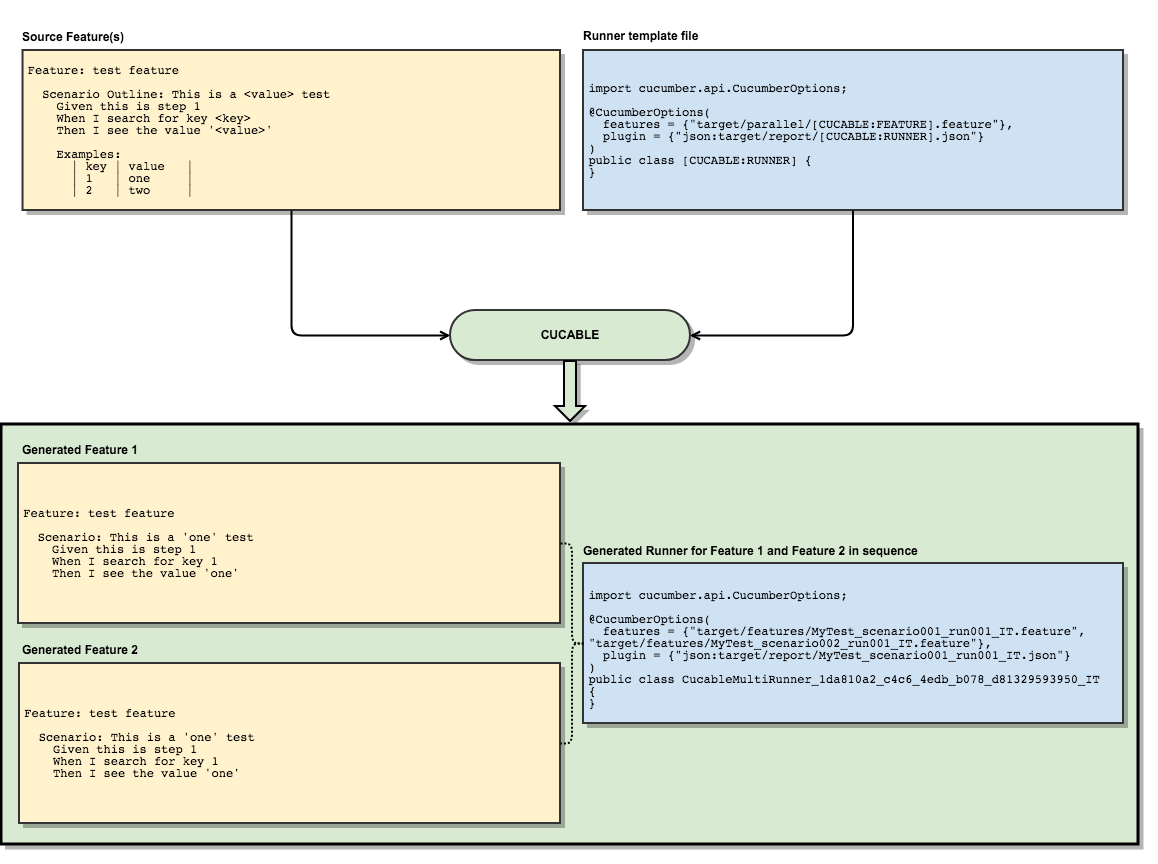
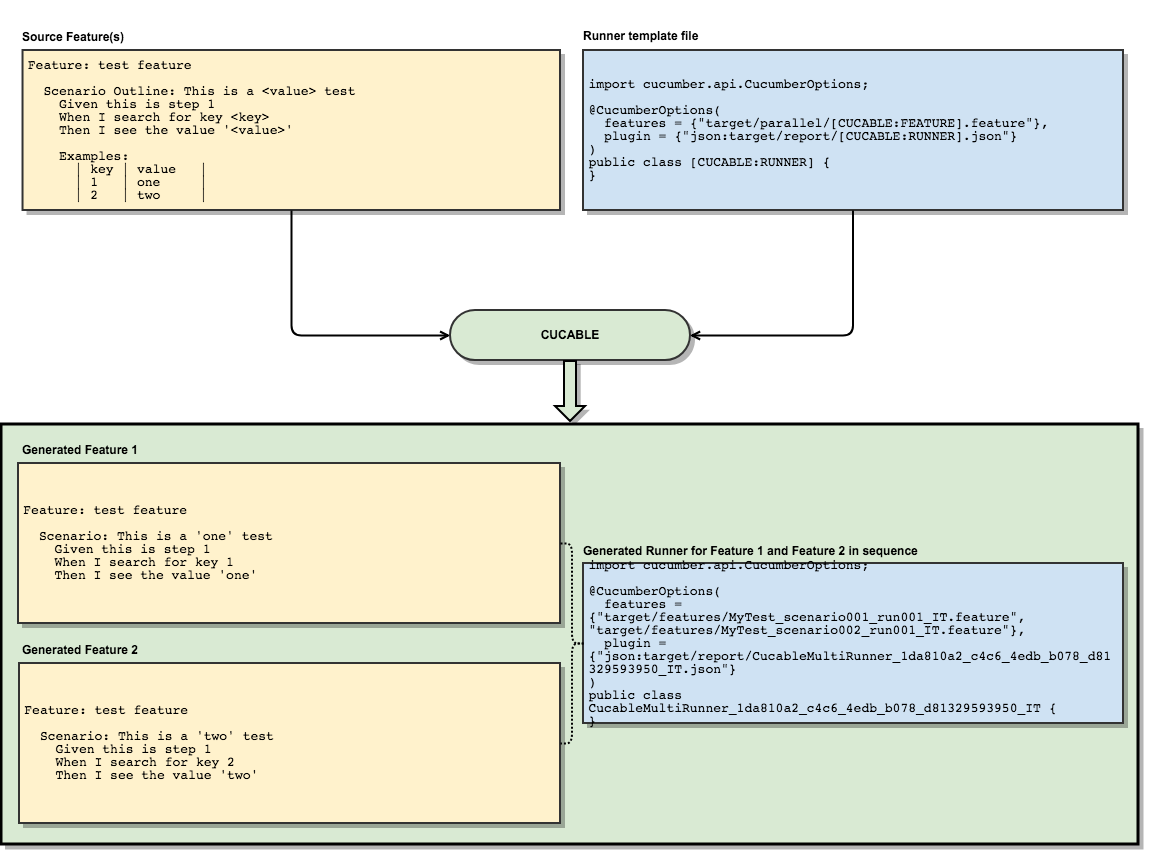
updated documentation

diff --git a/README.md b/README.md
@@ -60,9 +60,9 @@ Cucable is a Maven plugin for [Cucumber](https://cucumber.io) scenarios that sim
 
 This plugin does the following:
 
-- Generate single Cucumber features containing one single scenario each
+- Generate single [Cucumber](https://cucumber.io) features containing one single scenario each
 - Convert scenario outlines into separate scenarios
-- Generating Cucumber runners 
+- Generating [Cucumber](https://cucumber.io) runners 
   - for every generated "single scenario" feature file or
   - for multiple generated "single scenario" feature files
 
@@ -108,20 +108,36 @@ In case the runner runs multiple scenarios, its name will be auto-generated (e.g
 
 ### [CUCABLE:FEATURE]
 
-The `[CUCABLE:FEATURE]` 
+The `[CUCABLE:FEATURE]` can be placed in the `feature` value of the `@CucumberOptions` block in your template:
+
+<pre>
+@CucumberOptions(
+        features = {<b>"target/parallel/features/<b>[CUCABLE:FEATURE]</b>.feature"</b>}
+)
+</pre>
+
+Cucable will automatically detect the string containing the `[CUCABLE:FEATURE]` placeholder and use this to generate one line for each feature this runner should trigger.
 
 ## One runner per generated scenario
+
+This is the default mode of Cucable. Having multiple runners that run one "single scenario" feature each is best for parallelization with [Maven Failsafe](http://maven.apache.org/surefire/maven-failsafe-plugin/).
 
 ![Single feature runner generation](documentation/img/cucable_flow_single_runner.png)
 
 ## One runner per group of generated scenarios
+
+If you set the `desiredNumberOfRunners` option to a number greater than 0, Cucable will automatically switch to the multi-feature runner mode.
+
+This means that it will only generate the specified number of runners and distribute the generated features equally to each one of them. This is helpful if a group of scenarios should be executed during each forked run of your test framework.
+
+**Note:** If a runner runs only one feature, it automatically has the same name as the feature. Otherwise it will have a unique auto-generated name.
 
 ![Multi feature runner generation](documentation/img/cucable_flow_multi_runner.png)
 
 # Typical workflow
 
 1. Generation of runners and features
-2. Running the generated tests with Maven failsafe
+2. Running the generated tests with [Maven Failsafe](http://maven.apache.org/surefire/maven-failsafe-plugin/)
 3. Aggregation of a single test report after all test runs
 
 The following sections break down the above steps.
@@ -168,14 +184,16 @@ The following sections break down the above steps.
 
 #### sourceRunnerTemplateFile
 
-The specified file will be used to generate runners for every generated feature file.
+The specified file will be used to generate runner classes for the generated feature file that can be run using [Maven Failsafe](http://maven.apache.org/surefire/maven-failsafe-plugin/).
 
-This can be either a text file or a Java class. The difference is can be seen below:
+This can be either a text file or a Java class. The difference can be seen below:
 
 ##### Using a java file as a runner template
 
-If you use a java file (e.g. _src/test/java/some/template/CucableJavaTemplate.java_), all **[CUCABLE:FEATURE]** and **[CUCABLE:RUNNER]** placeholders as well as the **class name** will be substituted for the generated feature file name(s).
-Also, the **package declaration** will be stripped.
+If you use a java file (e.g. _src/test/java/some/template/CucableJavaTemplate.java_), the **[CUCABLE:FEATURE]** placeholder as well as the **class name** will be substituted for the generated feature file name(s).
+The **[CUCABLE:RUNNER]** placeholder will be replaced by the runner class name.
+
+Additionally, the **package declaration** will be stripped.
 
 _Example:_
 
@@ -233,44 +251,18 @@ public class <b>CucableMultiRunner_1da810a2_c4c6_4edb_b078_d81329593950_IT</b> {
 
 ##### Using a text file as a runner template
 
-If you use a text file (e.g. _src/test/resources/cucable.template_), all **[FEATURE_FILE_NAME]** placeholders will be substituted for the generated feature file name.
-
-_Example:_
-
-<pre>
-import cucumber.api.CucumberOptions;
-
-@CucumberOptions(
-        features = {"target/parallel/features/<b>[FEATURE_FILE_NAME]</b>.feature"},
-        plugin = {"json:target/cucumber-report/<b>[FEATURE_FILE_NAME]</b>.json"}
-)
-public class <b>[FEATURE_FILE_NAME]</b> {
-}
-</pre>
-
-will turn into
-
-<pre>
-import cucumber.api.CucumberOptions;
-
-@CucumberOptions(
-        features = {"target/parallel/features/<b>MyFeature_scenario001_run001_IT</b>.feature"},
-        plugin = {"json:target/cucumber-report/<b>MyFeature_scenario001_run001_IT</b>.json"}
-)
-public class <b>MyFeature_scenario001_run001_IT</b> {
-}
-</pre>
+If you use a text file (e.g. _src/test/resources/cucable.template_), all **[CUCABLE:FEATURE]** placeholder will be substituted for the generated feature file name(s). The **[CUCABLE:RUNNER]** placeholder will be replaced by the runner class name.
 
 #### sourceFeatures
 
 This can specify
-* the root path of your __existing__ Cucumber _.feature_ files (e.g. ```src/test/resources/features```)
-* the path to a specific __existing__ Cucumber _.feature_ file (e.g. ```src/test/resources/features/MyFeature.feature```)
-* the path to a specific __existing__ Cucumber _.feature_ file including line numbers of specific scenarios/scenario outlines inside this file (e.g. ```src/test/resources/features/MyFeature.feature:12:19``` would only convert the scenarios starting at line _12_ and _19_ inside _MyFeature.feature_)
+* the root path of your __existing__ [Cucumber](https://cucumber.io) _.feature_ files (e.g. ```src/test/resources/features```)
+* the path to a specific __existing__ [Cucumber](https://cucumber.io) _.feature_ file (e.g. ```src/test/resources/features/MyFeature.feature```)
+* the path to a specific __existing__ [Cucumber](https://cucumber.io) _.feature_ file including line numbers of specific scenarios/scenario outlines inside this file (e.g. ```src/test/resources/features/MyFeature.feature:12:19``` would only convert the scenarios starting at line _12_ and _19_ inside _MyFeature.feature_)
 
 #### generatedFeatureDirectory
 
-The path where the __generated__ Cucumber .feature files should be located (e.g. _src/test/resources/parallel_).
+The path where the __generated__ [Cucumber](https://cucumber.io) .feature files should be located (e.g. _src/test/resources/parallel_).
 
 **Note:** This directory should be located under a valid resource folder to be included as a test source by Maven.
 If you want to use a directory inside Maven's target folder, [check this example](#generating-runners-and-features-inside-target-directory).
@@ -290,7 +282,9 @@ If you want to use a directory inside Maven's target folder, [check this example
 
 #### numberOfTestRuns
 
-Optional number of test runs. If it is not set, its default value is __1__.
+Optional number of test runs. This can be used if specific scenarios should be run multiple times.
+If this options is not set, its default value is __1__.
+
 For each test run, the whole set of features and runners is generated like this:
 
 - MyFeature_scenario001_run001_IT.feature
@@ -348,6 +342,12 @@ This can be configured by passing the `logLevel` property:
 * _compact_ will only log the plugin name, version, properties and one line of summary
 * _minimal_ will only log a summary line
 * _off_ will prevent any logging
+
+#### desiredNumberOfRunners
+
+If you set this options, all generated features will be distributed to a fixed set of runner classes. This means that one runner can potentially run multiple features in sequence.
+
+If this option is not set, its default value is `0` which basically means "Generate a dedicated runner for every generated feature".
 
 ### Generating runners and features inside target directory
 
@@ -433,17 +433,19 @@ Feature: This is the feature name
 
 #### Runner template file
 
-This is the runner template file that is used to generate single scenario runners.
-The placeholder **[FEATURE_FILE_NAME]** will be replaced with generated feature names by Cucable.
+This is the runner template file (in this example we use a text file) that is used to generate single scenario runners.
+
+* The placeholder **[CUCABLE:FEATURE]** and its enclosing string will be replaced with the generated feature names by Cucable.
+* The placeholder **[CUCABLE:RUNNER]** will be replaced with the generated runner class name by Cucable.
 
 <pre>
 import cucumber.api.CucumberOptions;
 
 @CucumberOptions(
-        features = {"target/parallel/features/<b>[FEATURE_FILE_NAME]</b>.feature"},
-        plugin = {"json:target/cucumber-report/<b>[FEATURE_FILE_NAME]</b>.json"}
+        features = {"target/parallel/features/<b>[CUCABLE:FEATURE]</b>.feature"},
+        plugin = {"json:target/cucumber-report/<b>[CUCABLE:RUNNER]</b>.json"}
 )
-public class <b>[FEATURE_FILE_NAME]</b> {
+public class <b>[CUCABLE:RUNNER]</b> {
 }
 </pre>
 
@@ -464,7 +466,7 @@ And I click the login button
 Then I see an error message
 ```
 
-Note that for the scenario outlines, each example is converted to its own scenario and feature file:
+Note that for the scenario outlines, each example is converted _to its own scenario and feature file_:
 
 *MyFeature_scenario002_run001_IT.feature*
 
@@ -492,7 +494,7 @@ Then I see <b>85</b> items
 
 #### Generated runners
 
-The generated runners point to each one of the generated feature files.
+The generated runners point to each one of the generated feature files (unless you use the `desiredNumberOfRunners` option).
 
 This is an example for one of the generated runners - note how the placeholders are now replaced with the name of the feature to run:
 
@@ -511,10 +513,10 @@ public class <b>MyFeature_scenario001_run001_IT</b> {
 
 ## 2. Running the generated tests with Maven failsafe
 
-This will skip the unit tests (if any) and run the generated runner classes with Failsafe.
-Since all generated runner classes from the step before end with ___IT__, they are automatically considered integration tests and run with failsafe.
+This will skip the unit tests (if any) and run the generated runner classes with [Maven Failsafe](http://maven.apache.org/surefire/maven-failsafe-plugin/).
+Since all generated runner classes from the step before end with ___IT__, they are automatically considered integration tests and run with [Maven Failsafe](http://maven.apache.org/surefire/maven-failsafe-plugin/).
 
-**Note:** If all tests should be run regardless of their result, it is important to set ```<testFailureIgnore>true</testFailureIgnore>``` for Failsafe - otherwise the plugin execution will stop on failing tests.
+**Note:** If all tests should be run regardless of their result, it is important to set ```<testFailureIgnore>true</testFailureIgnore>``` for [Maven Failsafe](http://maven.apache.org/surefire/maven-failsafe-plugin/) - otherwise the plugin execution will stop on failing tests.
 However, if this is specified, the build will not fail in case of failing tests!
 
 To circumvent that, it is possible to specify a custom [rule](https://maven.apache.org/enforcer/enforcer-api/writing-a-custom-rule.html) for [Maven enforcer](https://maven.apache.org/enforcer/maven-enforcer-plugin/) that passes or fails the build depending on custom conditions.
@@ -591,7 +593,7 @@ It is available in [Maven central](https://search.maven.org/#search%7Cgav%7C1%7C
 
 ## License
 
-Copyright 2017 trivago N.V.
+Copyright 2017 [trivago N.V.](https://www.trivago.de/impressum)
 
 Licensed under the Apache License, Version 2.0 (the "License"); you may not use this file except in compliance with the License. You may obtain a copy of the License at
 
